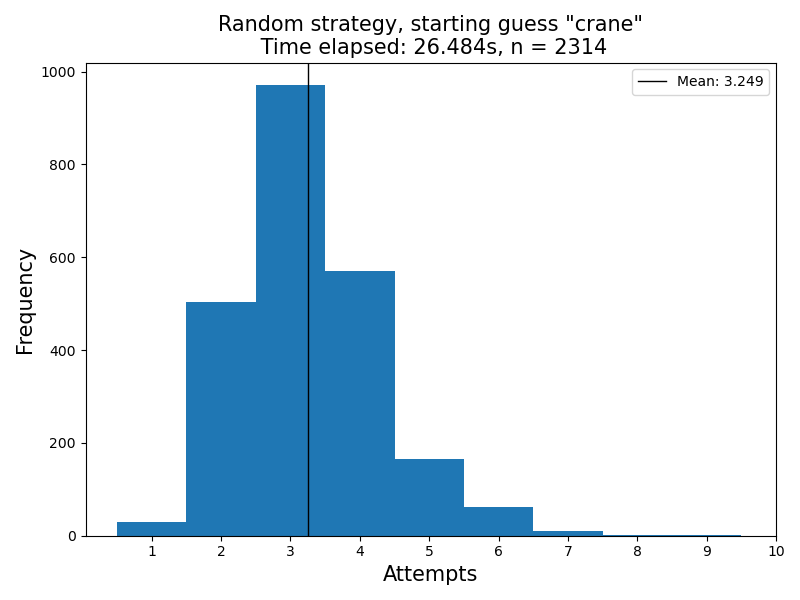
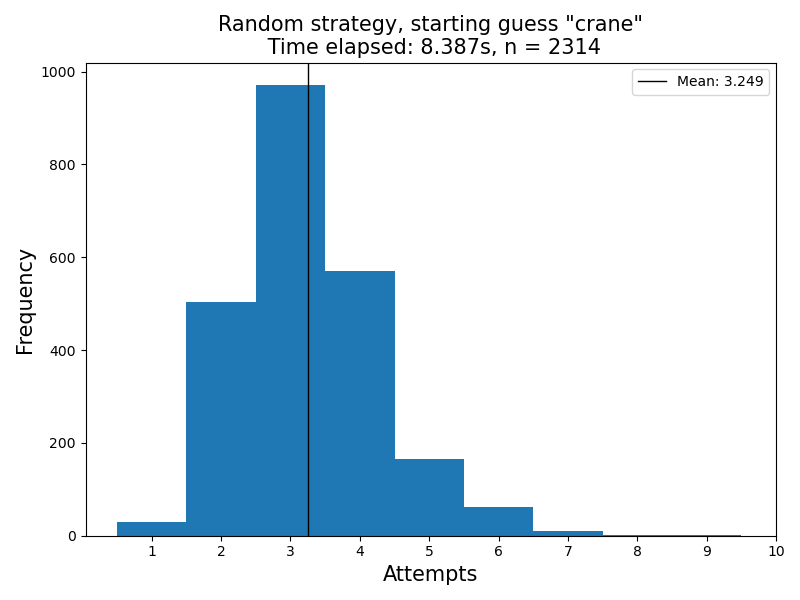
Updated readme and plot

Changed region(s): [[0.3125, 0.06, 0.7812, 0.09]]

diff --git a/testing/plot.py b/testing/plot.py
@@ -1,13 +1,14 @@
 import matplotlib.pyplot as plt
 import numpy as np
 
+# Change path to absolute path
 data = np.genfromtxt(r"./testing/random_data.csv", delimiter = ',')
 data = data[:-1] # get rid of nan caused by trailing comma
 
 plt.subplots(figsize = (8,6))
 plt.hist(data, bins = np.arange(1,11)-0.5)
 
-plt.title("Random strategy, starting guess \"crane\"\n Time elapsed: 26.484s, n = 2314", fontsize = 15)
+plt.title("Random strategy, starting guess \"crane\"\n Time elapsed: 8.387s, n = 2314", fontsize = 15)
 plt.xlabel("Attempts", fontsize = 15)
 plt.ylabel("Frequency", fontsize = 15)
 plt.xticks(range(1,11))

diff --git a/README.md b/README.md
@@ -1,3 +1,17 @@
 # C++ Wordle Solver
 
-Basic Wordle solver that uses some information theory to try to optimise the number of guesses required. Currently supports only a simple command-line interface. 
+Basic Wordle solver that uses some information theory to try to optimise the number of guesses required. Currently supports only a simple command-line interface. Work in progress.
+
+## Usage
+Compilation:
+
+`g++ -O2 wordle-solver.cpp -o wordle-solver`
+
+The program only takes one argument, the word file or a path to that file:
+
+`./wordle-solver <filename/path>`
+
+## Results
+Histogram of guess attempts from randomly picking the remaining words:
+
+![random_plot](./testing/random_plot.png)
